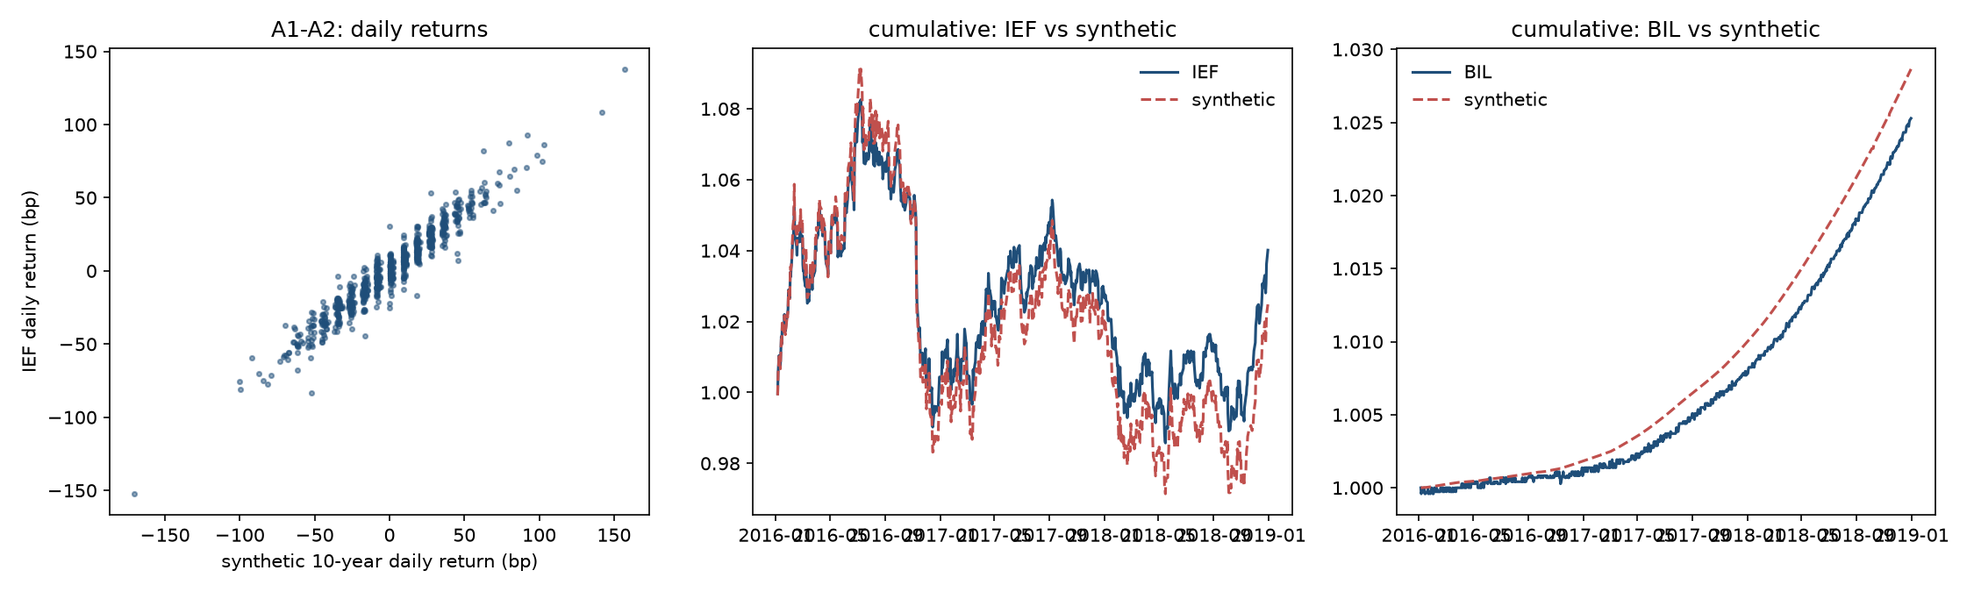
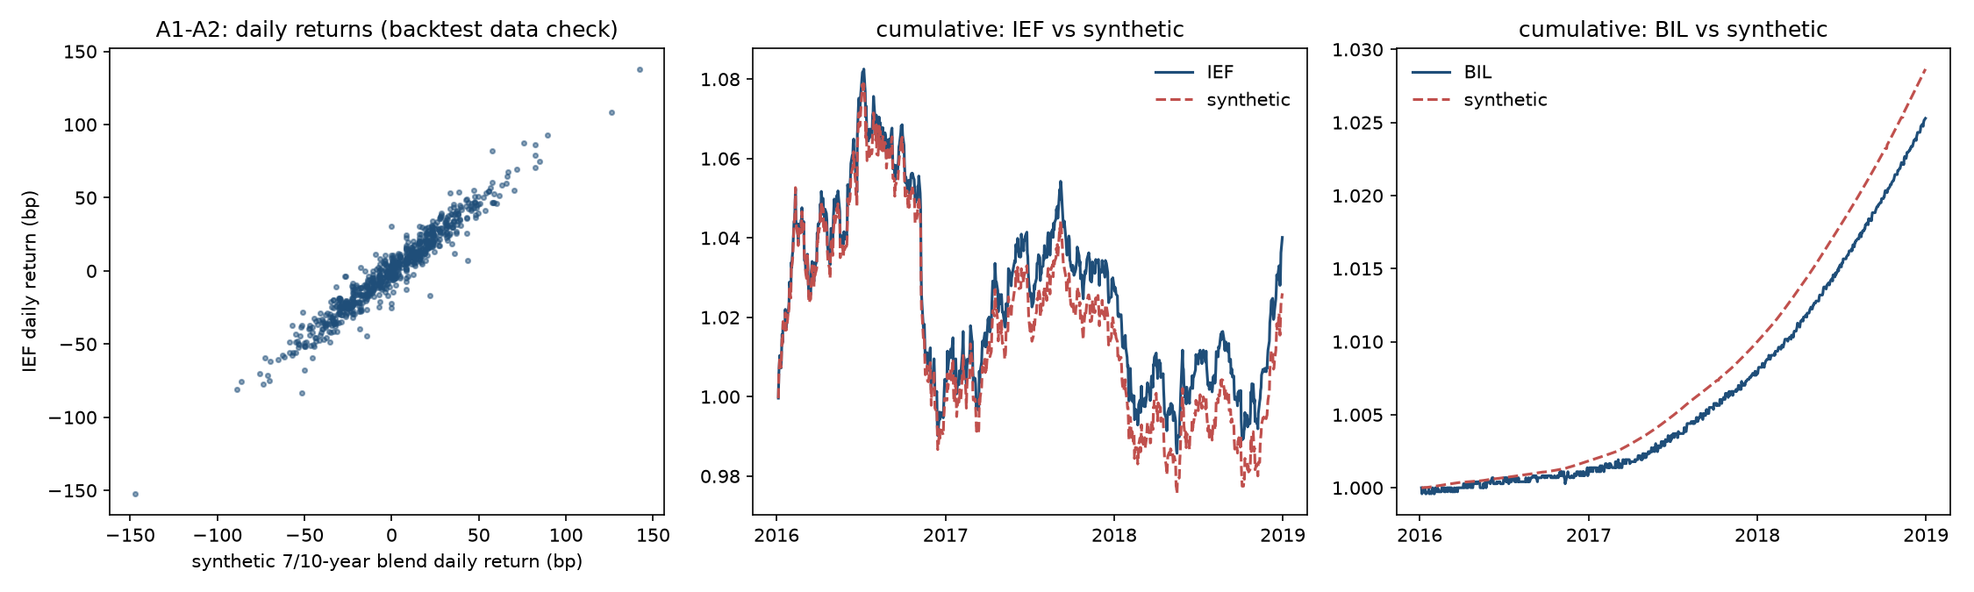
Study 001: re-validation (§5.3) with the 7/10 blend FAILED on A4 (+0.451% vs ±0.40% p.a.); study halted permanently before any rule was tested; halt note, §16 outcome entry, both validation runs retained; root index and build log updated

diff --git a/research/001-slope-duration-switch/README.md b/research/001-slope-duration-switch/README.md
@@ -1,92 +1,118 @@
 # Study 001 — Term-spread duration switch (IEF vs BIL)
 
-**Status: halted at the data validation (§5.3), 2026-10-21. No rule has been tested.** The owner approved the pre-registration and the symbols IEF and BIL on 2026-10-21 (`APPROVED`, [trials.md](trials.md)). The first step after approval, `./reproduce.sh --validate`, failed two of the six pre-registered thresholds for the synthetic instrument series, so under §5.3 the study stopped before `--insample` or `--oos` was run. **No return of T1, T2, T3 or any benchmark has been computed.** `results/insample/` and `results/oos/` do not exist. A dated amendment proposal with a corrected construction is in §16 of [PREREGISTRATION.md](PREREGISTRATION.md) and waits for the owner's decision; nothing further runs until that decision is recorded there.
+**Verdict: inconclusive — halted permanently at the data validation (§5.3) on 2026-10-21, before any rule was tested.** Under the pre-registered verdict table (§9.5) a study that halts at validation is "inconclusive". The hypothesis (hold IEF when the 10-year minus 3-month spread is positive, bills otherwise; §1) was neither supported nor refuted: **no return of T1, T2, T3 or any benchmark was ever computed.** `results/insample/` and `results/oos/` do not exist, and the out-of-sample window (2019-01 to 2026-09) was never touched.
 
-The question, hypothesis, data, exact rule, trials, sample split, benchmarks, metrics and decision criteria are all fixed in PREREGISTRATION.md and are not repeated here.
+What happened, in order (all on 2026-10-21; every step is a dated commit):
 
-## Validation result (backtest data check, §5.3; not a performance test)
+1. The owner approved the pre-registration and the symbols IEF and BIL (`APPROVED`, [trials.md](trials.md)).
+2. `./reproduce.sh --validate` compared the synthetic 10-year par-bond series against actual IEF returns over 2016–2018 and failed two of six thresholds (A3 tracking error 1.540% against ≤ 1.5%; A4 mean difference +0.455% p.a. against ±0.40%). The study halted as §5.3 requires and an amendment was proposed in §16 of [PREREGISTRATION.md](PREREGISTRATION.md).
+3. The orchestrator, under authority delegated by the owner, adopted the proposed correction: an equal-weight 7-year/10-year par-bond blend (DGS7 and DGS10) and an in-sample start of 1969-08, with **one** re-validation allowed and a permanent halt if it failed. The decision was committed before the re-run.
+4. The blend was implemented and unit-tested (101 tests), committed, and `./reproduce.sh --validate` was run a second and final time. A3 now passed (1.145%) and the slope A2 moved from 0.82 to 0.95, but **A4 was essentially unchanged at +0.451% p.a. and failed again.** The study is halted for good.
 
-Window 2016-01-04 to 2018-12-31, 753 NYSE trading days, instrument returns only, no rule applied. Source: `results/validation/validation.json` and `validation.md`; plot `results/validation/validation.png` (a backtest data comparison, not a strategy).
+Everything on this page is a backtest data comparison of instrument returns. Nothing here is a strategy result, a track record, or investment advice.
 
-| Check | Statistic | Value | Threshold | Result |
+The question, hypothesis, data, exact rule, trials, sample split, benchmarks, metrics and decision criteria are fixed in [PREREGISTRATION.md](PREREGISTRATION.md) and are not repeated here.
+
+## Validation results (backtest data check, §5.3; not a performance test)
+
+Window 2016-01-04 to 2018-12-31, 753 NYSE trading days common to both series, instrument returns only, no rule applied. Both runs are committed in full: the first (10-year par bond alone) in `results/validation/run1-ten-year-only/`, the second (7/10-year blend) in `results/validation/` (`validation.json`, `validation.md`, `validation.png`).
+
+| Check | Statistic | Threshold | Run 1: 10-year alone | Run 2: 7/10 blend |
 |---|---|---|---|---|
-| A1 | Correlation of daily returns, IEF vs synthetic 10-year | 0.966 | ≥ 0.95 | pass |
-| A2 | OLS slope of IEF on synthetic | 0.821 | in [0.80, 1.05] | pass (at the bottom of the band) |
-| A3 | Annualised tracking error, IEF vs synthetic | 1.540% p.a. | ≤ 1.5% p.a. | **fail** |
-| A4 | Annualised mean difference, IEF − synthetic | +0.455% p.a. | within ±0.40% p.a. | **fail** |
-| B1 | Annualised mean difference, BIL − synthetic cash | −0.110% p.a. | within ±0.30% p.a. | pass |
-| B2 | Annualised tracking error, BIL vs synthetic cash | 0.288% p.a. | ≤ 0.50% p.a. | pass |
+| A1 | Correlation of daily returns, IEF vs synthetic | ≥ 0.95 | 0.966 pass | 0.970 pass |
+| A2 | OLS slope of IEF on synthetic | in [0.80, 1.05] | 0.821 pass (edge of band) | 0.946 pass |
+| A3 | Annualised tracking error, IEF vs synthetic | ≤ 1.5% p.a. | 1.540% **fail** | 1.145% pass |
+| A4 | Annualised mean difference, IEF − synthetic | within ±0.40% p.a. | +0.455% **fail** | +0.451% **fail** |
+| B1 | Annualised mean difference, BIL − synthetic cash | within ±0.30% p.a. | −0.110% pass | −0.110% pass |
+| B2 | Annualised tracking error, BIL vs synthetic cash | ≤ 0.50% p.a. | 0.288% pass | 0.288% pass |
 
-The duration/convexity cross-check of the exact repricing (§5.2) agrees to 0.0000 bp per day on average (1.6 × 10⁻⁸ in return units; acceptance 0.5 bp), so the synthetic arithmetic is not the problem.
+Sources: `results/validation/run1-ten-year-only/validation.json` and `results/validation/validation.json`. The duration/convexity cross-check of the exact repricing (§5.2) agrees to 0.000 bp per day on average in both runs (1.6 × 10⁻⁸ and 1.2 × 10⁻⁸ in return units against an acceptance of 0.5 bp), so the bond arithmetic is not the problem. The cash leg is not at issue.
 
-What the numbers say: the ETF's daily return moves about 0.82 for every 1.00 of a 10-year par bond repriced from DGS10. That is the ETF-versus-index mismatch §5.3 anticipated (a 7–10-year index has less duration than a 10-year bond), and it is larger than the thresholds allowed for. Yields rose over the window, so the longer synthetic lost more than the ETF; that shows up as the ETF beating the synthetic by 45 bp a year (A4) and as residual day-to-day variance (A3, 4 bp over the limit). The cash leg tracks well. Both failures are small in size and both point the same way: the synthetic duration leg is too long.
+![Validation: IEF and BIL against the synthetic series, 2016–2018 (backtest data check)](results/validation/validation.png)
 
-What this means for the study: the in-sample period (1962–2018) would have been scored on a synthetic series that is systematically more volatile than, and over rising-yield stretches lower-returning than, the instrument actually traded. §5.3 says that is not acceptable without a dated correction, so the correction is proposed in §16 (an equal-weight 7-year/10-year par-bond blend from DGS7 and DGS10, the example §5.3 itself gave) and the study waits. One correction only; if the re-run fails, the study halts for good.
+### Reading of the failure (inferred; written after both runs; not used to change anything)
 
-## What did not work (so far)
+The blend did what it was meant to do: the ETF's day-to-day moves are now matched almost one for one (slope 0.95, tracking error down by a quarter). What it did not touch is the **level** of the gap: IEF earned about 45 bp a year more than the synthetic in both runs, in each of the three years (0.47%, 0.50% and 0.38% p.a. in 2016, 2017 and 2018, computed from the same aligned daily series). A gap that survives a large change in duration, and is stable year by year, is not a duration effect and not noise. It is a systematic term the construction leaves out.
 
-- **A3 and A4 of the validation failed**, as above. The thresholds were set before any data were looked at, and the duration mismatch between a 7–10-year ETF and a 10-year par bond turned out larger than the ±0.40% p.a. and 1.5% p.a. allowances. A2 passed by 0.02.
-- **Three tests failed after approval.** `test_reproduce_refuses_without_approval` asserted that no `APPROVED` file exists, so recording the approval broke it. It now runs on a copy of the script without that file (§16, first post-approval entry). 98 tests pass again.
-- **`reproduce.sh` could not run as written.** It re-fetched the Alpaca bars on every run and required an API key pair that the run environment does not have; and on the day of the run the FRED site was in a maintenance window and returned an HTML page in place of the CSV for over twenty minutes. The script now reuses the files already in `data/raw/` in either case and says so; their provenance is in `results/data_manifest.json`. Both changes are recorded in §16. No return had been computed when they were made.
-- **Cosmetic:** the date labels on the lower axes of `validation.png` overlap. Not fixed, since the figure is a committed result file.
+The most likely candidate is **roll-down**. §5.2 reprices a par bond whose maturity is held constant, and states that ignoring the one day of ageing per day is "of order 1/3650 of a year of roll-down and far below the approximation error". That is true per day and false per year: the term is tiny but always of the same sign, and a real 7–10-year portfolio holds bonds that age along an upward-sloping curve. Over the window the 10-year minus 7-year spread averaged 14 bp, which gives a roll-down of roughly modified duration × (y₁₀ − y₇)/3 ≈ 0.43% p.a. for the 10-year leg, 0.31% for the 7-year leg and about **0.37% p.a. for the blend**, close to the observed gap. (This is the same roll-down term that trial T3 would have used in its signal; it was never computed as a return.) Smaller contributions may come from securities-lending income and from the index holding seasoned bonds with coupons away from par; none of these was measured. The reading is an inference from yields, not a test, and it is recorded here so that a successor study can set its thresholds and its construction with the term included from the start.
+
+Why the construction was not changed a third time: the decision in §16 allowed exactly one correction so that the synthetic series could not be iterated towards a pass after seeing the comparison. The correction chosen (a shorter duration) addressed the failure that was understood (A2 and A3) and not the one that was not (A4). That was a design error, and the rule that prevents a third attempt is working as intended.
+
+## What did not work
+
+- **A4 failed twice** (+0.455% and +0.451% p.a. against ±0.40%). The ±0.40% allowance was set before any data were looked at and was narrower than the systematic bias the §5.2 construction carries. Shortening the duration did not move it.
+- **A3 failed once** (1.540% against 1.5% p.a.) and A2 passed by 0.02 in the first run; the blend fixed both. The first failure was correctly diagnosed; the second was not.
+- **The §5.2 claim that roll-down is negligible was wrong** in the mean, as explained above. The pre-registration's own T3 variant treats roll-down as large enough to be a signal; the instrument construction treated it as too small to matter. These two positions were inconsistent and nobody noticed before the data did.
+- **A unit test caught a real bug in the blend before it ran:** the first implementation charged the expense ratio on each leg at half weight and then halved it again in the blend, so only half the fee was deducted. The test on flat yields (carry minus fee) failed and the bug was fixed before validation. It is noted because it is the kind of error that would have flattered the synthetic series by 7.5 bp a year.
+- **Three tests failed after approval** because `test_reproduce_refuses_without_approval` asserted that no `APPROVED` file exists; it now runs on a copy of the script (§16, first post-approval entry).
+- **`reproduce.sh` could not run as written** on the day: it required Alpaca credentials the run environment does not have, and FRED served an HTML maintenance page instead of the CSV during both validation runs (the second run, like the first, fell back to the files already in `data/raw/`; provenance in `results/data_manifest.json`). Both fallbacks are recorded in §16. No return was computed in either case.
+- **Cosmetic:** the date labels on `validation.png` overlapped in the first run; the second run renders year ticks. The first run's figure is kept as it was.
+
+## Limitations of what can be concluded
+
+- Nothing about the hypothesis. The slope rule may or may not work; this study produced no evidence either way, and should not be cited as a failure of the rule.
+- The validation window is three years of one regime (2016–2018, rising yields from a low base). A different window could have passed A4 by chance; that would not have made the construction right.
+- The designer's prior knowledge of 2019–2026 (§2.4) is unaffected by the halt and would apply to any successor study with the same out-of-sample window.
+- The roll-down reading above is a back-of-envelope estimate from two yield series, not a decomposition of the ETF's return.
+
+## What a successor study would need
+
+A new pre-registration (a new study number), not an amendment here. It would need an instrument construction whose expected bias against the ETF is written down before validation, with thresholds set around it: either a constant-maturity series that ages its bond and reprices it on an interpolated curve (which needs DGS5 and DGS7 as well as DGS10), or a published index history, or a shorter sample that uses ETF data only (from 2002 for IEF, which forfeits the pre-ETF history that motivated the synthetic series). The question in §1 stands.
 
 ## Paper trading
 
-Not started. §8.4 and §11 start paper trading from the publication date of a study note with results; there is no such note. Nothing is backdated.
+Not started and will not start under this study. §8.4 and §11 start paper trading from the publication date of a study note with results; there is no such note. Nothing is backdated.
 
 ## Earlier preparation (dates only, no returns)
 
 - FRED series DGS10, DTB3 and DGS7 downloaded into `data/raw/` (git-ignored); provenance (URL, UTC timestamp, rows, SHA-256, first and last valid date) in `results/data_manifest.json`. Row and missing counts match §5.4. Alpaca bars for IEF and BIL (`adjustment='all'`, 2016-01-04 to 2026-10-21) fetched the same day; only row counts and hashes are in the manifest.
-- The signal-to-execution date mapping (§6.3) on the real FRED calendar gives 683 in-sample and 93 out-of-sample holding periods, as §8 anticipates, with no month lacking a signal. `python -m src.calendar` writes the mapping to `results/execution_calendar.csv`.
+- The signal-to-execution date mapping (§6.3) on the real FRED calendar gives 593 in-sample (from the §16 start of 1969-08) and 93 out-of-sample holding periods, with no month lacking a signal. `python -m src.calendar` writes the mapping to `results/execution_calendar.csv`.
 
-## How to run (after approval)
+## How to reproduce the validation
 
 From this folder, with the repository's virtual environment (`pip install -r requirements.txt`):
 
 ```
-python -m pytest -q          # unit tests on synthetic data; no network, no real returns
-./reproduce.sh --validate    # §5.3 data check  -> results/validation/
-./reproduce.sh --insample    # §8.1 in-sample   -> results/insample/   (freezes the B3 weight)
-./reproduce.sh --oos         # §8.2 out-of-sample, exactly once -> results/oos/
+python -m pytest -q          # 101 unit tests on toy data; no network, no real returns
+./reproduce.sh --validate    # §5.3 data check  -> results/validation/  (fails, as reported)
 ```
 
-`reproduce.sh` requires a file named `APPROVED` in this folder containing the owner's approval date, re-fetches the data on every run (falling back to the files already in `data/raw/` if FRED is unreachable or the Alpaca credentials are not set; §16), and refuses `--oos` if `results/oos/` already exists. The main chart (`main_chart.png`: spread with the holding shaded, drawdown of T1 versus B1) is produced by `src/report.py` through `reproduce.sh`.
+`reproduce.sh` requires a file named `APPROVED` in this folder, re-fetches the data on every run (falling back to the files already in `data/raw/` if FRED is unreachable or the Alpaca credentials are not set; §16), and refuses `--oos` if `results/oos/` already exists. `--insample` and `--oos` are implemented and tested but were never run on real data, and must not be run under this study.
 
 ### Credentials
 
-Alpaca market data (ETF bars, `adjustment='all'`, SIP feed) is fetched by `src/alpaca_bars.py`, which reads the API key pair from the environment variables `APCA_API_KEY_ID` and `APCA_API_SECRET_KEY` and from nowhere else. Export them in the shell that runs `reproduce.sh --validate` or `--oos` to re-fetch; without them the script reuses bars already in `data/raw/`. `--insample` needs no credentials (FRED only). Bars are licensed and are never committed; only their row count and hash enter the manifest. FRED needs no key.
+Alpaca market data (ETF bars, `adjustment='all'`, SIP feed) is fetched by `src/alpaca_bars.py`, which reads the API key pair from the environment variables `APCA_API_KEY_ID` and `APCA_API_SECRET_KEY` and from nowhere else. Without them the script reuses bars already in `data/raw/`. Bars are licensed and are never committed; only their row count and hash enter the manifest. FRED needs no key.
 
 ## Layout
 
-The layout follows §13. Modules are run as `python -m src.<module>` from this folder so that `src/calendar.py` (the name fixed in §13) is imported as `src.calendar` and never shadows the standard-library `calendar` module. Two files are not in §13: `src/config.py`, which holds every pre-registered constant with its section reference, and `conftest.py`, which makes the folder importable for pytest.
+The layout follows §13. Modules are run as `python -m src.<module>` from this folder so that `src/calendar.py` (the name fixed in §13) is imported as `src.calendar` and never shadows the standard-library `calendar` module. Two files are not in §13: `src/config.py`, which holds every pre-registered constant with its section reference (including the §16 blend and sample-start constants), and `conftest.py`, which makes the folder importable for pytest.
 
 | Module | Pre-registration section |
 |---|---|
 | `src/fred.py` | §5.1 download, parsing, manifest |
 | `src/alpaca_bars.py` | §5.1 ETF bars, `adjustment='all'` |
 | `src/bey.py` | §5.1 bond-equivalent yield; §5.2, §7 par-bond price, duration, convexity |
-| `src/synthetic.py` | §5.2 synthetic 10-year and cash returns, duration/convexity cross-check |
+| `src/synthetic.py` | §5.2 synthetic cash returns and duration leg (7/10-year blend per §16; 10-year alone before 1969-07), duration/convexity cross-check |
 | `src/validate.py` | §5.3 checks A1–A4, B1–B2 and plots |
 | `src/calendar.py` | §6.3 signal dates (FRED calendar) and execution dates (NYSE calendar) |
 | `src/signal.py` | §6.1 T1; §7 T2, T3 |
-| `src/backtest.py` | §6.4–§6.6 monthly loop and costs; §9.1 benchmarks B0–B3 |
-| `src/stats.py` | §9.3 metrics, Newey–West, Ledoit–Wolf, stationary bootstrap; §9.4 PSR/DSR |
-| `src/report.py` | §8, §9.5, §9.6 runs, tables, criteria, figures |
-| `src/paper_trade.py` | §11.2, §11.5 decision record and order plan (no order submission; see its docstring) |
+| `src/backtest.py` | §6.4–§6.6 monthly loop and costs; §9.1 benchmarks B0–B3 (never run on real data) |
+| `src/stats.py` | §9.3 metrics, Newey–West, Ledoit–Wolf, stationary bootstrap; §9.4 PSR/DSR (never run on real data) |
+| `src/report.py` | §8, §9.5, §9.6 runs, tables, criteria, figures (never run on real data) |
+| `src/paper_trade.py` | §11.2, §11.5 decision record and order plan (no order submission; not started) |
 
 Random seed for every bootstrap: 20261021 (§13).
 
-## Implementation notes to be confirmed at review
-
-These are readings of the pre-registration made while implementing; none changes a number or a rule. They are listed so that the reviewer can object before anything is run.
+## Implementation notes (readings of the pre-registration made while implementing; none changes a number or a rule)
 
 1. **T3 units.** `D_mod(DGS10_t) × (DGS10_t − DGS7_t)/3` is computed with both yields as decimals, consistent with `spread_t`, which §6.1 defines in decimals.
 2. **Initial purchase.** No strategy or benchmark is charged for the position assumed to be in place at the first execution date; §6.6 starts with `holding = BIL` without a cost and §9.1 exempts B0 and B1 "after the initial purchase". The cost of switching is charged on both legs as `(1 − c)²` on equity (§6.6); a static mix pays `(1 − c·x)²` on the drifted fraction x (§9.1).
 3. **Synthetic index on NYSE-only days.** When an execution date is an NYSE trading day but not a FRED business day, the synthetic index is taken as of the last FRED observation on or before it (the same as-of rule compounds the synthetic series onto NYSE intervals in §5.3).
-4. **NYSE calendar.** No NYSE calendar source is named in §5; `src/calendar.py` is rule-based (regular holidays with their observance rules and the exchange's unscheduled closures since 1962). Out-of-sample execution dates are additionally resolved against the bars actually present (§6.5), so a calendar error there would appear as logged slippage. The closure list should be checked against the exchange's published history before the in-sample run.
-5. **T2 start.** T2 needs 21 valid daily spreads; if that leaves the first signal date undefined, T2 simply starts at the first month where it is defined. T3 starts at the 1969-07 signal month (§7). Comparisons with B1 and B3 use the trial's own holding periods.
+4. **NYSE calendar.** No NYSE calendar source is named in §5; `src/calendar.py` is rule-based (regular holidays with their observance rules and the exchange's unscheduled closures since 1962). Out-of-sample execution dates are additionally resolved against the bars actually present (§6.5).
+5. **T2 start.** T2 needs 21 valid daily spreads; if that leaves the first signal date undefined, T2 starts at the first month where it is defined. T3 starts at the 1969-07 signal month (§7), which after §16 is also the start for T1 and T2.
 6. **Ledoit–Wolf standard errors** use a Bartlett kernel with 6 lags (the Newey–West bandwidth of §9.3) in the sample and in every resample; Sharpe ratios inside the test use population moments as in the paper.
-7. **Literature DOIs** (§3) were checked against the Crossref API on 2026-10-21; see the table below. Nothing in §3 was changed: two citations carry a different year in the registry (online-first against print) and one could not be verified from an automated reader.
+7. **Blend calendar.** The 7-year and 10-year legs are repriced on the dates where both DGS7 and DGS10 are observed; in the data these coincide on every date from 1969-07-01, so nothing is dropped.
+8. **Literature DOIs** (§3) were checked against the Crossref API on 2026-10-21; see the table below.
 
 ## Literature verification (2026-10-21)
 

diff --git a/BUILD_LOG.md b/BUILD_LOG.md
@@ -63,3 +63,9 @@ Dated decisions and mistakes, oldest first. Each entry: what was decided or what
 **2026-10-20** — Standing orders written: the decision-rights table, triggers and reviews, model choice by difficulty, rules for unattended work. An alignment audit rewrote the operating prompts to be organisation-only and removed personal material from working files; journal retention set at 30 days.
 
 **2026-10-21** — Public research programme set: rates and the yield curve, then fixed income and macro, then systematic cross-asset signals, traded only through liquid ETFs on the paper account. This repository created with a leak scan on every commit and push. Study 001 (rates) is in design; its question, hypothesis, benchmarks and limits go to the owner for approval before any test. Treasury ETF symbols are not yet on the approved list.
+
+**2026-10-21** — Study 001 approved by the owner (pre-registration v1.0 and the symbols IEF and BIL), after the literature had been checked against the Crossref registry and the code and 98 tests had been built without touching any return. Approval recorded in a file in the study folder; the reproduction script refuses to run without it.
+
+**2026-10-21** — Study 001 halted at its first step after approval. The pre-registered check of the synthetic 10-year bond series against actual IEF returns (2016–2018) failed two of six thresholds: tracking error 1.540% against 1.5% p.a., and a mean return gap of +0.455% against ±0.40% p.a. The study stopped before any rule was tested, the failure was published, and a correction (a 7/10-year par-bond blend from the 7-year yield series, with the in-sample start moved to 1969-08 so that one construction covers the whole sample) was proposed in the amendment log. Mistake: the fidelity thresholds were set without a written estimate of the bias the construction would carry. Decision: one correction and one re-run only, decided and committed before the re-run, so that the synthetic series could not be iterated towards a pass.
+
+**2026-10-21** — Study 001 re-validated once with the blend and halted permanently. The blend fixed what had been diagnosed (slope 0.82 to 0.95, tracking error 1.540% to 1.145%) and left the mean gap untouched (+0.451% against ±0.40% p.a.). Reading, recorded as an inference: the construction holds maturity constant and so omits roll-down, which the pre-registration itself called negligible; at the window's 7–10-year curve slope it is worth about 0.37% p.a., most of the gap. Mistakes: the pre-registration treated roll-down as a signal (trial T3) and as negligible in the instrument at the same time; and the one allowed correction addressed the failure that was understood rather than the one that was not. No return of any rule or benchmark was computed; the out-of-sample window was never touched; paper trading does not start. A successor study needs a new pre-registration with the bias written down before the check. A unit test caught a fee-halving bug in the blend before it ran.

diff --git a/research/001-slope-duration-switch/PREREGISTRATION.md b/research/001-slope-duration-switch/PREREGISTRATION.md
@@ -493,3 +493,4 @@ No step may be reordered. Steps 3 and 5 are the only times the author sees any r
   2. Neither alternative for 1962–69 is adopted. Instead, **the in-sample period for every trial and benchmark starts on the first execution date of August 1969** (first signal date: the last FRED business day of July 1969, the first month in which DGS7 exists), so that one instrument construction is used throughout the sample. This also aligns T1 and T2 with T3, which already started in 1969-07. The in-sample period becomes 1969-08 to 2018-12 (about 593 monthly holding periods); the out-of-sample period, signal, cash leg, costs, thresholds, benchmarks and criteria are unchanged. Cost of the change: about seven and a half years of rising-rate history (1962–69) are dropped; 1969–1981 still covers the rising-rate regime and is reported as its own sub-period (the §9.6 sub-period "1962-02 to 1981-12" becomes "1969-08 to 1981-12").
   3. `reproduce.sh --validate` is re-run **once** with the new construction and the unchanged §5.3 thresholds. If any threshold fails, the study halts permanently, is published as halted, and the construction is not changed again.
   4. Why the decision was taken this way: the alternative of a 5/10 blend for 1962–69 would introduce a second construction chosen after seeing the validation result; dropping those years removes that choice rather than making it.
+- **2026-10-21, OUTCOME of the single re-validation; results seen: §5.3 validation statistics and plot for both constructions only; no return of any rule or benchmark; N unchanged (3). The study is halted permanently.** The decision above was implemented (blend in `src/synthetic.py`, in-sample start 1969-08 in `src/config.py`, blend unit tests; 101 tests passed) and committed before `reproduce.sh --validate` was run a second and final time. Outcome against the unchanged thresholds: A1 0.970 (pass), A2 0.946 (pass), A3 1.145% p.a. (pass; was 1.540%), **A4 +0.451% p.a. against ±0.40% (fail; was +0.455%)**, B1 −0.110% p.a. (pass), B2 0.288% p.a. (pass). Under item 3 of the decision no further change to the construction is allowed, so the study halts before any rule is tested. `results/insample/` and `results/oos/` do not exist and no return of T1, T2, T3 or B0–B3 has been computed. Both validation outputs are retained: the first run in `results/validation/run1-ten-year-only/`, the second in `results/validation/`. A post-hoc reading of the failure (inferred, not tested, and not used to change anything) is in README.md.

diff --git a/README.md b/README.md
@@ -28,9 +28,9 @@ All of it is traded only through liquid ETFs (treasury ETFs, dollar and currency
 
 | Study | Question | Status |
 |---|---|---|
-| [001 Term-spread duration switch](research/001-slope-duration-switch/PREREGISTRATION.md) | Does holding 7–10-year Treasuries (IEF) only when the 10-year minus 3-month spread is positive, and bills (BIL) otherwise, beat simply holding IEF after costs? | designed (pre-registered and approved 2026-10-21; build complete; tests running) |
+| [001 Term-spread duration switch](research/001-slope-duration-switch/README.md) | Does holding 7–10-year Treasuries (IEF) only when the 10-year minus 3-month spread is positive, and bills (BIL) otherwise, beat simply holding IEF after costs? | **halted at validation** (2026-10-21). Verdict: inconclusive. The synthetic pre-ETF bond series failed its pre-registered fidelity check twice (mean return gap +0.45% p.a. against a ±0.40% limit), so no rule was ever tested. Nothing is known about the hypothesis from this study. |
 
-Study 001's symbols (IEF, BIL) were approved for paper trading on 2026-10-21, after pre-registration and before any test.
+Study 001's symbols (IEF, BIL) were approved for paper trading on 2026-10-21, after pre-registration and before any test. The study halted the same day at its data-validation step; the halt note explains the failure, retains both validation runs, and lists what a successor study would need.
 
 ### Earlier desk work (private workspace, summarised)
 
@@ -52,6 +52,7 @@ These results were produced before this repository existed. They are backtests a
 | designed | Question, hypothesis, benchmarks and limits written and dated. No data examined for the test. |
 | built | Code exists and its tests pass. No result yet. |
 | tested | Backtest run once against the pre-declared bar; result published, pass or fail, with trial count and deflated Sharpe. |
+| halted at validation | A pre-registered data check failed before any rule was tested; the failure is published in full, no rule result exists, and the study is closed. A successor needs a new pre-registration. |
 | paper-trading | Cleared by Independent Risk and running forward on the paper account from the publication date. |
 
 A result is never upgraded to "tested" by re-running with changed parameters; a changed rule is a new trial and a new entry.

diff --git a/research/001-slope-duration-switch/trials.md b/research/001-slope-duration-switch/trials.md
@@ -10,4 +10,4 @@ Every trial is logged here before it is run (§7). The deflated Sharpe ratio use
 | T2 | 2026-10-21 | V1: mean of the last 21 valid daily spreads ending on the signal date, same threshold (§7) | registered 2026-10-21, not run | — |
 | T3 | 2026-10-21 | V2: carry including roll-down, spread + D_mod(DGS10) × (DGS10 − DGS7)/3, from 1969-07 (§7) | registered 2026-10-21, not run | — |
 
-No return of any rule or benchmark has been computed on real data as of 2026-10-21.
+No return of any rule or benchmark has been computed on real data as of 2026-10-21. The study halted permanently at the §5.3 data validation on 2026-10-21 (second and final run, A4 failed; §16), so T1, T2 and T3 were never run. The table is kept so that the registered trial count N = 3 remains on record.

diff --git a/research/001-slope-duration-switch/results/validation/run1-ten-year-only/validation.md b/research/001-slope-duration-switch/results/validation/run1-ten-year-only/validation.md
@@ -1,0 +1,16 @@
+# Validation of the synthetic series (§5.3)
+
+Window 2016-01-04 to 2018-12-31. Instrument returns only; no rule applied.
+
+| Check | Value | Threshold | Pass |
+|---|---|---|---|
+| A1 | 0.96567 | >= 0.95 | yes |
+| A2 | 0.82055 | in [0.8, 1.05] | yes |
+| A3 | 0.01540 | <= 0.015 | NO |
+| A4 | 0.00455 | within +/-0.004 | NO |
+| B1 | -0.00110 | within +/-0.003 | yes |
+| B2 | 0.00288 | <= 0.005 | yes |
+
+Duration/convexity cross-check, mean absolute daily error: 0.000 bp (acceptance 0.5 bp, §5.2).
+
+Result: FAILED; the study halts (§5.3).

diff --git a/research/001-slope-duration-switch/results/validation/validation.md b/research/001-slope-duration-switch/results/validation/validation.md
@@ -4,10 +4,10 @@ Window 2016-01-04 to 2018-12-31. Instrument returns only; no rule applied.
 
 | Check | Value | Threshold | Pass |
 |---|---|---|---|
-| A1 | 0.96567 | >= 0.95 | yes |
-| A2 | 0.82055 | in [0.8, 1.05] | yes |
-| A3 | 0.01540 | <= 0.015 | NO |
-| A4 | 0.00455 | within +/-0.004 | NO |
+| A1 | 0.97010 | >= 0.95 | yes |
+| A2 | 0.94610 | in [0.8, 1.05] | yes |
+| A3 | 0.01145 | <= 0.015 | yes |
+| A4 | 0.00451 | within +/-0.004 | NO |
 | B1 | -0.00110 | within +/-0.003 | yes |
 | B2 | 0.00288 | <= 0.005 | yes |
 
